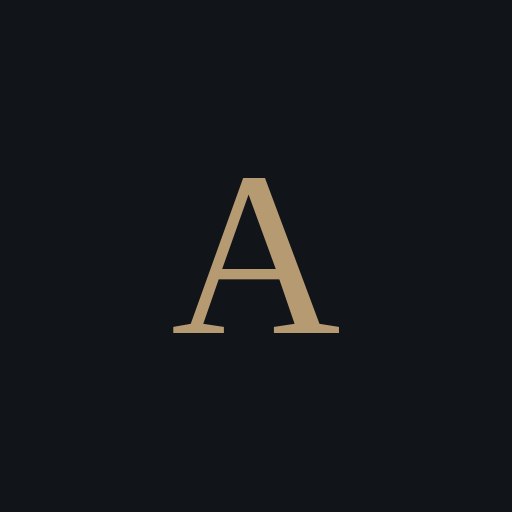
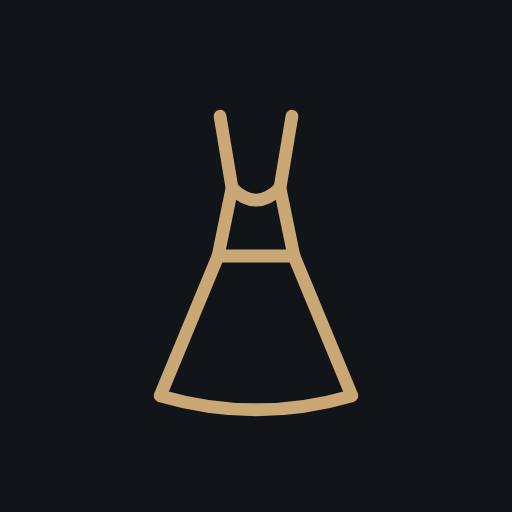
Pagine separate su telefono, interfaccia minimal e nuova icona (#49)
* Rifinitura UI: banner Google una tantum, Guardaroba, ingressi Aggiungi più semplici, fondale Ispirazione

Claude-Session: https://claude.ai/code/session_013V1PHqaeoaw5GZh4aRDxzy

* Pagina unica su telefono: tutte le sezioni principali in un solo scorrimento

Claude-Session: https://claude.ai/code/session_013V1PHqaeoaw5GZh4aRDxzy

* Selettore lingua IT | EN: evidenzia la lingua attuale

Claude-Session: https://claude.ai/code/session_013V1PHqaeoaw5GZh4aRDxzy

* Foto capi uniformi (ritaglio automatico anche su sfondi sfumati), pulsanti Ispirazione ordinati

Claude-Session: https://claude.ai/code/session_013V1PHqaeoaw5GZh4aRDxzy

* Pagine separate su telefono, interfaccia minimal e nuova icona (abito stilizzato)

Claude-Session: https://claude.ai/code/session_013V1PHqaeoaw5GZh4aRDxzy

* Ancora più minimal: via banner account, meteo e impegni in pagina, statistiche e strumenti, opzioni accessorie

Claude-Session: https://claude.ai/code/session_013V1PHqaeoaw5GZh4aRDxzy

* Rimuove il riferimento alla pagina unica

Claude-Session: https://claude.ai/code/session_013V1PHqaeoaw5GZh4aRDxzy

---------

Changed region(s): [[0.2812, 0.2188, 0.7188, 0.8125]]

diff --git a/atelier-minimal.css b/atelier-minimal.css
@@ -1,0 +1,43 @@
+/* Minimal: meno testo di contorno, niente decorazioni, più aria. Caricato per ultimo. */
+.greet .sub, .compose-sub, #caveauSub,
+.view-head > .small, #view-looks > .small, #view-looks .palette,
+#view-add .view-head .small { display: none !important; }
+
+/* Titoli e spaziature più sobri */
+.greet h1, .view-head h1 { font-weight: 400 !important; letter-spacing: -.01em; }
+.view-head { margin-bottom: 14px !important; }
+main { padding-top: 20px !important; }
+
+/* Niente contorni né ombre: solo superfici tenui */
+.idea-card, #tomorrow, #gaps, .look, .v3-swap, .v3-inspiration, .studio-card { border: 0 !important; box-shadow: none !important; }
+.btn.secondary { background: transparent !important; box-shadow: inset 0 0 0 1px var(--rule) !important; }
+.chip { background: transparent !important; }
+
+/* Barra in basso: solo le icone, l'etichetta resta per la scheda attiva */
+.tab .nav-text { display: none !important; }
+.tab[aria-selected=true] .nav-text { display: block !important; }
+.tabs { height: calc(58px + env(safe-area-inset-bottom)) !important; }
+.tab[data-tab=add]:not([aria-selected=true]) .nav-text { display: none !important; }
+
+/* ---- Ancora più minimal ---- */
+/* Account: solo nel Profilo */
+#accountPanel { display: none !important; }
+
+/* Ispirazione: il look e basta. Meteo, impegni e strumenti restano nel Profilo e nel menu, non in pagina */
+.atelier-context, .atelier-utilities, .v3-laundry-note, .v3-inspiration { display: none !important; }
+#view-today .greet .date { font-size: 12px; letter-spacing: .02em; }
+#view-today .lede { display: none !important; }
+#v3Swap { display: none !important; }
+
+/* Guardaroba: la griglia e i filtri; statistiche e strumenti di ritaglio fuori */
+#v3Insights, .v3-photo-actions, #gaps, #atelierStats { display: none !important; }
+
+/* Aggiungi: tre ingressi, senza opzioni accessorie finché non servono */
+.v3-option, #view-add .v3-add-modes > button span { display: none !important; }
+.v3-add-modes > button { padding-block: 18px !important; }
+#view-add:not(.has-photos) #noPhoto { display: none !important; }
+
+/* Look: elenco pulito */
+#view-looks .search { margin-bottom: 10px !important; }
+.v3-add-modes > button { align-items: center !important; }
+.v3-add-modes > button b { grid-row: 1 / 3; align-self: center; }

diff --git a/sw.js b/sw.js
@@ -1,6 +1,6 @@
 /* ATELIER — service worker: apre l'app anche senza rete, i dati restano sul dispositivo */
-const CACHE = 'atelier-v32';
-const SHELL = ['/', '/index.html', '/style.css', '/wardrobe-experience.css', '/wardrobe-experience.js', '/atelier-tools.js', '/atelier-tools.css', '/atelier-redesign.css', '/atelier-redesign.js', '/atelier-clean.css', '/atelier-inspired.css', '/atelier-dark.css', '/atelier-flat.css', '/atelier-premium.css', '/atelier-v3.css', '/atelier-v3-layout.js', '/atelier-v3-features.js', '/atelier-v3-week.js', '/atelier-v3-features.css', '/atelier-account-hidden.css', '/atelier-i18n.css', '/atelier-i18n.js', '/atelier-ios.css', '/atelier-ios.js', '/atelier-studio.js', '/app.js', '/plan.js', '/atelier-feel.js', '/atelier-theme.js', '/atelier-onepage.js', '/atelier-theme.css', '/atelier-feel.css', '/drive-sync.js', '/manifest.json', '/icons/icon-192.png', '/icons/icon-512.png', '/fonts/cormorant-garamond-latin-500-normal.woff2', '/fonts/cormorant-garamond-latin-600-normal.woff2'];
+const CACHE = 'atelier-v34';
+const SHELL = ['/', '/index.html', '/style.css', '/wardrobe-experience.css', '/wardrobe-experience.js', '/atelier-tools.js', '/atelier-tools.css', '/atelier-redesign.css', '/atelier-redesign.js', '/atelier-clean.css', '/atelier-inspired.css', '/atelier-dark.css', '/atelier-flat.css', '/atelier-premium.css', '/atelier-v3.css', '/atelier-v3-layout.js', '/atelier-v3-features.js', '/atelier-v3-week.js', '/atelier-v3-features.css', '/atelier-account-hidden.css', '/atelier-i18n.css', '/atelier-i18n.js', '/atelier-ios.css', '/atelier-ios.js', '/atelier-studio.js', '/app.js', '/plan.js', '/atelier-feel.js', '/atelier-theme.js', '/atelier-theme.css', '/atelier-minimal.css', '/atelier-feel.css', '/drive-sync.js', '/manifest.json', '/icons/icon-192.png', '/icons/icon-512.png', '/fonts/cormorant-garamond-latin-500-normal.woff2', '/fonts/cormorant-garamond-latin-600-normal.woff2'];
 
 self.addEventListener('install', e => {
   e.waitUntil(caches.open(CACHE).then(c => c.addAll(SHELL)));

diff --git a/atelier-ios.css b/atelier-ios.css
@@ -430,22 +430,13 @@ body:has(#view-profile:not(.hidden)) #accountPanel, body:has(#view-diary:not(.hi
 .look-fav[aria-pressed=true] svg path { fill: currentColor; }
 
 /* Aggiungi capo: tre ingressi; elaborazione e azioni compaiono dopo la scelta delle foto (solo su touch) */
-@media (hover: none) {
-  #view-add:not(.has-photos) #dropzone,
-  #view-add:not(.has-photos) .actions:has(#analyze),
-  #view-add:not(.has-photos) .actions:has(#noPhoto) { display: none; }
-}
+#view-add:not(.has-photos) #dropzone,
+#view-add:not(.has-photos) .actions:has(#analyze),
+#view-add:not(.has-photos) .actions:has(#noPhoto) { display: none; }
 
 /* Ispirazione: fondale vicino al colore della pagina */
 #view-today #idea .strip { background: var(--surface) !important; }
 #view-today #idea .strip figure { filter: drop-shadow(0 8px 10px rgba(0, 0, 0, .18)) !important; }
-
-/* Pagina unica su telefono */
-body.onepage main > section[role=tabpanel] { scroll-margin-top: calc(var(--top-h, 64px) + 8px); padding-bottom: 28px; margin-bottom: 28px; border-bottom: 1px solid var(--rule); }
-body.onepage #view-add { border-bottom: 0; margin-bottom: 0; }
-body.onepage main > section[role=tabpanel] > .view-head,
-body.onepage main > section[role=tabpanel] > .greet { padding-top: 4px; }
-body.onepage #view-today.hidden, body.onepage #view-week.hidden, body.onepage #view-wardrobe.hidden, body.onepage #view-looks.hidden, body.onepage #view-add.hidden { display: block !important; }
 
 /* Selettore lingua: mostra IT | EN con la lingua attuale in evidenza */
 .atelier-language { display: inline-flex; gap: 2px; padding: 3px !important; }

diff --git a/index.html b/index.html
@@ -31,6 +31,7 @@
   <link rel="stylesheet" href="/atelier-ios.css">
   <link rel="stylesheet" href="/atelier-feel.css">
   <link rel="stylesheet" href="/atelier-theme.css">
+  <link rel="stylesheet" href="/atelier-minimal.css">
   <link rel="preconnect" href="https://fonts.googleapis.com">
   <link rel="preconnect" href="https://fonts.gstatic.com" crossorigin>
   <link href="https://fonts.googleapis.com/css2?family=Bodoni+Moda:ital,opsz,wght@0,6..96,400..600;1,6..96,400..500&family=Hanken+Grotesk:wght@400;500;600;700&display=swap" rel="stylesheet">
@@ -291,6 +292,5 @@
   <script src="/atelier-studio.js" defer></script>
   <script src="/atelier-feel.js" defer></script>
   <script src="/atelier-theme.js" defer></script>
-  <script src="/atelier-onepage.js" defer></script>
 </body>
 </html>
